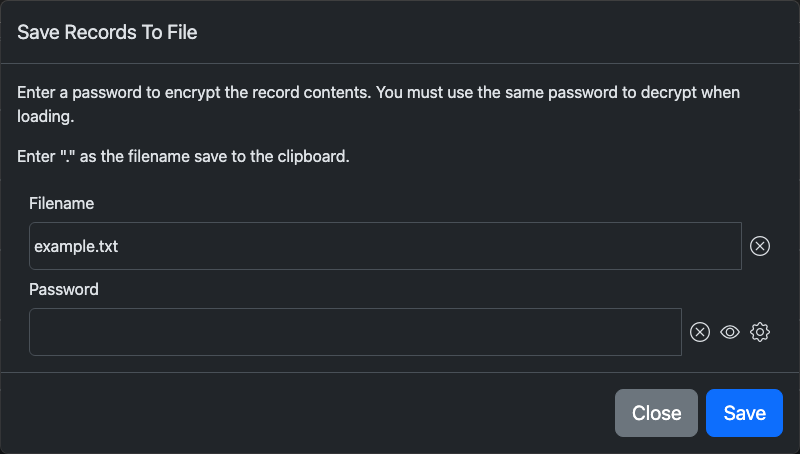
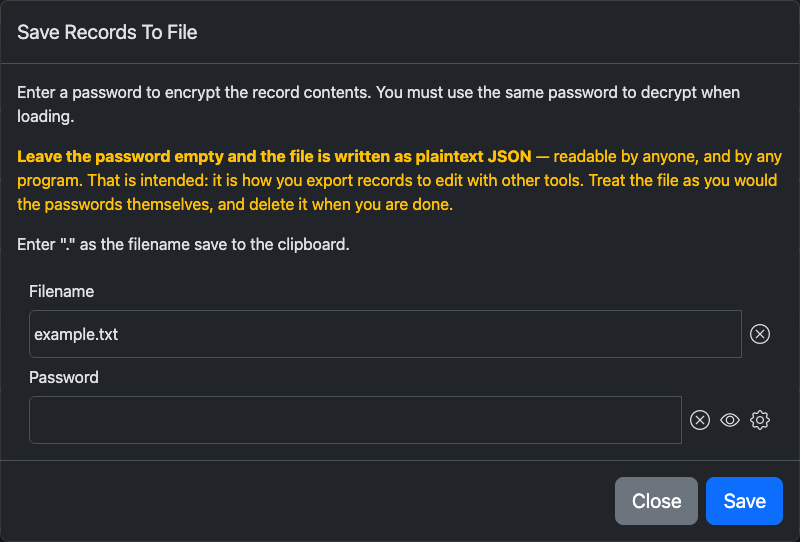
pam v2.5.1 release

diff --git a/pam/www/help/index.html b/pam/www/help/index.html
@@ -140,7 +140,7 @@ the on-line help is generated.</p>
 </tr>
 <tr>
 <td>Version</td>
-<td><code>2.5.0</code></td>
+<td><code>2.5.1</code></td>
 </tr>
 <tr>
 <td>Bootstrap Version</td>
@@ -148,11 +148,11 @@ the on-line help is generated.</p>
 </tr>
 <tr>
 <td>Build</td>
-<td><code>2026-09-09 14:54:01 -0700</code></td>
+<td><code>2026-09-09 16:14:14 -0700</code></td>
 </tr>
 <tr>
 <td>GitCommitId</td>
-<td><code>11e53d9</code></td>
+<td><code>1f87576</code></td>
 </tr>
 <tr>
 <td>GitBranch</td>
@@ -267,7 +267,10 @@ Section</a></li>
 <li><a href="#deactivate-record">Deactivate Record</a></li>
 <li><a href="#clone-record">Clone Record</a></li>
 <li><a href="#clear-records">Clear Records</a></li>
-<li><a href="#save-file">Save File</a></li>
+<li><a href="#save-file">Save File</a>
+<ul>
+<li><a href="#plaintext-export">Plaintext export</a></li>
+</ul></li>
 <li><a href="#load-file">Load File</a></li>
 <li><a href="#reused-passwords">Reused Passwords</a></li>
 <li><a href="#breached-passwords">Breached Passwords</a></li>
@@ -2067,6 +2070,34 @@ javascript that can be read by anyone.</p>
 unless you understand the consequences. For example, saving the data
 without a password can sometimes be convenient because it allows you to
 see how the <em>PAM</em> data is organized which can aid automation.</p>
+<h4 id="plaintext-export">Plaintext export</h4>
+<p><strong>Saving with an empty password writes unencrypted
+JSON.</strong> Leave the password field blank in the Save dialogue and
+the file is written as-is: readable, greppable, and editable with
+<code>jq</code> or any text editor. Loading a file with no password
+reads it back the same way.</p>
+<p>Since v2.5.1 the Save dialogue says so at the point you decide,
+rather than leaving it to be discovered here.</p>
+<p>This is <em>PAM</em>’s full-fidelity export. Everything in the vault
+is present — every record, every field, every preference, in
+plaintext.</p>
+<div class="sourceCode" id="cb3"><pre
+class="sourceCode bash"><code class="sourceCode bash"><span id="cb3-1"><a href="#cb3-1" aria-hidden="true" tabindex="-1"></a><span class="co"># adjust every record with jq, then load the result back into PAM</span></span>
+<span id="cb3-2"><a href="#cb3-2" aria-hidden="true" tabindex="-1"></a><span class="ex">jq</span> <span class="st">&#39;.records[].fields[] |= (select(.name == &quot;login&quot;) .value |= ascii_downcase)&#39;</span> <span class="dt">\</span></span>
+<span id="cb3-3"><a href="#cb3-3" aria-hidden="true" tabindex="-1"></a>   vault-plaintext.json <span class="op">&gt;</span> vault-edited.json</span></code></pre></div>
+<p><strong>Treat the resulting file as you would the passwords
+themselves.</strong> It is not protected by anything. Do not leave it in
+a sync folder, a downloads directory or a shell history. Delete it when
+you are done.</p>
+<p>Files written this way carry no integrity digest, so an edited file
+loads without complaint. See <a href="#file-integrity-check">File
+Integrity Check</a>.</p>
+<blockquote>
+<p>Plaintext files saved by <strong>v2.5.0 specifically</strong> do
+carry a digest, which was a bug — an edited copy of one is refused on
+load. Either re-save it from v2.5.1, or strip the field once with
+<code>jq 'del(.meta.integrity)'</code>.</p>
+</blockquote>
 <h3 id="load-file">Load File</h3>
 <p>To load records and preferences from a file by choose the
 <q><img src="../icons/black/file-arrow-up-fill.svg" height='32' width='32' /> Load
@@ -2846,6 +2877,13 @@ unverified vault is not applied silently.</p>
 <p><strong>Older files still work.</strong> A file saved before v2.5.0
 has no digest. <em>PAM</em> notes that in the console and loads it
 normally; a missing digest is not treated as tampering.</p>
+<p><strong>Plaintext saves carry no digest, deliberately.</strong>
+Saving with an empty password writes unencrypted JSON — see <a
+href="#plaintext-export">Plaintext export</a> — and the reason to do
+that is usually to edit the result and load it back. A digest would make
+that fail, reporting a file you edited on purpose as modified. An
+unencrypted file is outside the trust boundary in any case: anyone who
+can read it can rewrite it, digest included.</p>
 <p><strong>What it does not do.</strong> The digest is stored inside the
 file, so anyone able to rewrite the file could remove it. And neither
 this nor any authentication scheme detects a <em>rollback</em> —
@@ -3324,41 +3362,41 @@ href="./MIGRATION.md">MIGRATION.md</a> for details.</p>
 <p>The v2 file format is structured as follows:</p>
 <pre><code>&quot;PAMv2:&quot; + Base64( [16-byte salt] [16-byte IV] [ciphertext] )</code></pre>
 <h4 id="decrypt-a-pam-v2-file">Decrypt a PAM v2 file</h4>
-<div class="sourceCode" id="cb5"><pre
-class="sourceCode bash"><code class="sourceCode bash"><span id="cb5-1"><a href="#cb5-1" aria-hidden="true" tabindex="-1"></a><span class="co"># Strip the PAMv2: prefix and decode from Base64</span></span>
-<span id="cb5-2"><a href="#cb5-2" aria-hidden="true" tabindex="-1"></a><span class="fu">sed</span> <span class="st">&#39;s/^PAMv2://&#39;</span> myfile.txt <span class="kw">|</span> <span class="fu">base64</span> <span class="at">-d</span> <span class="op">&gt;</span> raw.bin</span>
-<span id="cb5-3"><a href="#cb5-3" aria-hidden="true" tabindex="-1"></a></span>
-<span id="cb5-4"><a href="#cb5-4" aria-hidden="true" tabindex="-1"></a><span class="co"># Slice out salt (bytes 0-15), IV (bytes 16-31), ciphertext (bytes 32+)</span></span>
-<span id="cb5-5"><a href="#cb5-5" aria-hidden="true" tabindex="-1"></a><span class="fu">dd</span> if=raw.bin bs=1 count=16 of=salt.bin <span class="dv">2</span><span class="op">&gt;</span>/dev/null</span>
-<span id="cb5-6"><a href="#cb5-6" aria-hidden="true" tabindex="-1"></a><span class="fu">dd</span> if=raw.bin bs=1 skip=16 count=16 of=iv.bin <span class="dv">2</span><span class="op">&gt;</span>/dev/null</span>
-<span id="cb5-7"><a href="#cb5-7" aria-hidden="true" tabindex="-1"></a><span class="fu">dd</span> if=raw.bin bs=1 skip=32 of=cipher.bin <span class="dv">2</span><span class="op">&gt;</span>/dev/null</span>
-<span id="cb5-8"><a href="#cb5-8" aria-hidden="true" tabindex="-1"></a></span>
-<span id="cb5-9"><a href="#cb5-9" aria-hidden="true" tabindex="-1"></a><span class="co"># Decrypt</span></span>
-<span id="cb5-10"><a href="#cb5-10" aria-hidden="true" tabindex="-1"></a><span class="ex">openssl</span> enc <span class="at">-d</span> <span class="at">-aes-256-cbc</span> <span class="dt">\</span></span>
-<span id="cb5-11"><a href="#cb5-11" aria-hidden="true" tabindex="-1"></a>  <span class="at">-pbkdf2</span> <span class="at">-iter</span> 600000 <span class="at">-md</span> sha256 <span class="dt">\</span></span>
-<span id="cb5-12"><a href="#cb5-12" aria-hidden="true" tabindex="-1"></a>  <span class="at">-S</span> <span class="va">$(</span><span class="ex">xxd</span> <span class="at">-p</span> salt.bin<span class="va">)</span> <span class="dt">\</span></span>
-<span id="cb5-13"><a href="#cb5-13" aria-hidden="true" tabindex="-1"></a>  <span class="at">-iv</span> <span class="va">$(</span><span class="ex">xxd</span> <span class="at">-p</span> iv.bin<span class="va">)</span> <span class="dt">\</span></span>
-<span id="cb5-14"><a href="#cb5-14" aria-hidden="true" tabindex="-1"></a>  <span class="at">-in</span> cipher.bin <span class="dt">\</span></span>
-<span id="cb5-15"><a href="#cb5-15" aria-hidden="true" tabindex="-1"></a>  <span class="at">-out</span> decrypted.json <span class="dt">\</span></span>
-<span id="cb5-16"><a href="#cb5-16" aria-hidden="true" tabindex="-1"></a>  <span class="at">-pass</span> pass:yourpassword</span></code></pre></div>
+<div class="sourceCode" id="cb6"><pre
+class="sourceCode bash"><code class="sourceCode bash"><span id="cb6-1"><a href="#cb6-1" aria-hidden="true" tabindex="-1"></a><span class="co"># Strip the PAMv2: prefix and decode from Base64</span></span>
+<span id="cb6-2"><a href="#cb6-2" aria-hidden="true" tabindex="-1"></a><span class="fu">sed</span> <span class="st">&#39;s/^PAMv2://&#39;</span> myfile.txt <span class="kw">|</span> <span class="fu">base64</span> <span class="at">-d</span> <span class="op">&gt;</span> raw.bin</span>
+<span id="cb6-3"><a href="#cb6-3" aria-hidden="true" tabindex="-1"></a></span>
+<span id="cb6-4"><a href="#cb6-4" aria-hidden="true" tabindex="-1"></a><span class="co"># Slice out salt (bytes 0-15), IV (bytes 16-31), ciphertext (bytes 32+)</span></span>
+<span id="cb6-5"><a href="#cb6-5" aria-hidden="true" tabindex="-1"></a><span class="fu">dd</span> if=raw.bin bs=1 count=16 of=salt.bin <span class="dv">2</span><span class="op">&gt;</span>/dev/null</span>
+<span id="cb6-6"><a href="#cb6-6" aria-hidden="true" tabindex="-1"></a><span class="fu">dd</span> if=raw.bin bs=1 skip=16 count=16 of=iv.bin <span class="dv">2</span><span class="op">&gt;</span>/dev/null</span>
+<span id="cb6-7"><a href="#cb6-7" aria-hidden="true" tabindex="-1"></a><span class="fu">dd</span> if=raw.bin bs=1 skip=32 of=cipher.bin <span class="dv">2</span><span class="op">&gt;</span>/dev/null</span>
+<span id="cb6-8"><a href="#cb6-8" aria-hidden="true" tabindex="-1"></a></span>
+<span id="cb6-9"><a href="#cb6-9" aria-hidden="true" tabindex="-1"></a><span class="co"># Decrypt</span></span>
+<span id="cb6-10"><a href="#cb6-10" aria-hidden="true" tabindex="-1"></a><span class="ex">openssl</span> enc <span class="at">-d</span> <span class="at">-aes-256-cbc</span> <span class="dt">\</span></span>
+<span id="cb6-11"><a href="#cb6-11" aria-hidden="true" tabindex="-1"></a>  <span class="at">-pbkdf2</span> <span class="at">-iter</span> 600000 <span class="at">-md</span> sha256 <span class="dt">\</span></span>
+<span id="cb6-12"><a href="#cb6-12" aria-hidden="true" tabindex="-1"></a>  <span class="at">-S</span> <span class="va">$(</span><span class="ex">xxd</span> <span class="at">-p</span> salt.bin<span class="va">)</span> <span class="dt">\</span></span>
+<span id="cb6-13"><a href="#cb6-13" aria-hidden="true" tabindex="-1"></a>  <span class="at">-iv</span> <span class="va">$(</span><span class="ex">xxd</span> <span class="at">-p</span> iv.bin<span class="va">)</span> <span class="dt">\</span></span>
+<span id="cb6-14"><a href="#cb6-14" aria-hidden="true" tabindex="-1"></a>  <span class="at">-in</span> cipher.bin <span class="dt">\</span></span>
+<span id="cb6-15"><a href="#cb6-15" aria-hidden="true" tabindex="-1"></a>  <span class="at">-out</span> decrypted.json <span class="dt">\</span></span>
+<span id="cb6-16"><a href="#cb6-16" aria-hidden="true" tabindex="-1"></a>  <span class="at">-pass</span> pass:yourpassword</span></code></pre></div>
 <h4 id="encrypt-a-file-to-pam-v2-format">Encrypt a file to PAM v2
 format</h4>
-<div class="sourceCode" id="cb6"><pre
-class="sourceCode bash"><code class="sourceCode bash"><span id="cb6-1"><a href="#cb6-1" aria-hidden="true" tabindex="-1"></a><span class="co"># Generate random salt and IV</span></span>
-<span id="cb6-2"><a href="#cb6-2" aria-hidden="true" tabindex="-1"></a><span class="ex">openssl</span> rand 16 <span class="op">&gt;</span> salt.bin</span>
-<span id="cb6-3"><a href="#cb6-3" aria-hidden="true" tabindex="-1"></a><span class="ex">openssl</span> rand 16 <span class="op">&gt;</span> iv.bin</span>
-<span id="cb6-4"><a href="#cb6-4" aria-hidden="true" tabindex="-1"></a></span>
-<span id="cb6-5"><a href="#cb6-5" aria-hidden="true" tabindex="-1"></a><span class="co"># Encrypt</span></span>
-<span id="cb6-6"><a href="#cb6-6" aria-hidden="true" tabindex="-1"></a><span class="ex">openssl</span> enc <span class="at">-aes-256-cbc</span> <span class="dt">\</span></span>
-<span id="cb6-7"><a href="#cb6-7" aria-hidden="true" tabindex="-1"></a>  <span class="at">-pbkdf2</span> <span class="at">-iter</span> 600000 <span class="at">-md</span> sha256 <span class="dt">\</span></span>
-<span id="cb6-8"><a href="#cb6-8" aria-hidden="true" tabindex="-1"></a>  <span class="at">-S</span> <span class="va">$(</span><span class="ex">xxd</span> <span class="at">-p</span> salt.bin<span class="va">)</span> <span class="dt">\</span></span>
-<span id="cb6-9"><a href="#cb6-9" aria-hidden="true" tabindex="-1"></a>  <span class="at">-iv</span> <span class="va">$(</span><span class="ex">xxd</span> <span class="at">-p</span> iv.bin<span class="va">)</span> <span class="dt">\</span></span>
-<span id="cb6-10"><a href="#cb6-10" aria-hidden="true" tabindex="-1"></a>  <span class="at">-in</span> plaintext.json <span class="dt">\</span></span>
-<span id="cb6-11"><a href="#cb6-11" aria-hidden="true" tabindex="-1"></a>  <span class="at">-out</span> cipher.bin <span class="dt">\</span></span>
-<span id="cb6-12"><a href="#cb6-12" aria-hidden="true" tabindex="-1"></a>  <span class="at">-pass</span> pass:yourpassword</span>
-<span id="cb6-13"><a href="#cb6-13" aria-hidden="true" tabindex="-1"></a></span>
-<span id="cb6-14"><a href="#cb6-14" aria-hidden="true" tabindex="-1"></a><span class="co"># Concatenate salt + IV + ciphertext, Base64-encode, and add the PAMv2: prefix</span></span>
-<span id="cb6-15"><a href="#cb6-15" aria-hidden="true" tabindex="-1"></a><span class="fu">cat</span> salt.bin iv.bin cipher.bin <span class="kw">|</span> <span class="fu">base64</span> <span class="kw">|</span> <span class="fu">tr</span> <span class="at">-d</span> <span class="st">&#39;\n&#39;</span> <span class="kw">|</span> <span class="fu">sed</span> <span class="st">&#39;s/^/PAMv2:/&#39;</span> <span class="op">&gt;</span> myfile.txt</span></code></pre></div>
+<div class="sourceCode" id="cb7"><pre
+class="sourceCode bash"><code class="sourceCode bash"><span id="cb7-1"><a href="#cb7-1" aria-hidden="true" tabindex="-1"></a><span class="co"># Generate random salt and IV</span></span>
+<span id="cb7-2"><a href="#cb7-2" aria-hidden="true" tabindex="-1"></a><span class="ex">openssl</span> rand 16 <span class="op">&gt;</span> salt.bin</span>
+<span id="cb7-3"><a href="#cb7-3" aria-hidden="true" tabindex="-1"></a><span class="ex">openssl</span> rand 16 <span class="op">&gt;</span> iv.bin</span>
+<span id="cb7-4"><a href="#cb7-4" aria-hidden="true" tabindex="-1"></a></span>
+<span id="cb7-5"><a href="#cb7-5" aria-hidden="true" tabindex="-1"></a><span class="co"># Encrypt</span></span>
+<span id="cb7-6"><a href="#cb7-6" aria-hidden="true" tabindex="-1"></a><span class="ex">openssl</span> enc <span class="at">-aes-256-cbc</span> <span class="dt">\</span></span>
+<span id="cb7-7"><a href="#cb7-7" aria-hidden="true" tabindex="-1"></a>  <span class="at">-pbkdf2</span> <span class="at">-iter</span> 600000 <span class="at">-md</span> sha256 <span class="dt">\</span></span>
+<span id="cb7-8"><a href="#cb7-8" aria-hidden="true" tabindex="-1"></a>  <span class="at">-S</span> <span class="va">$(</span><span class="ex">xxd</span> <span class="at">-p</span> salt.bin<span class="va">)</span> <span class="dt">\</span></span>
+<span id="cb7-9"><a href="#cb7-9" aria-hidden="true" tabindex="-1"></a>  <span class="at">-iv</span> <span class="va">$(</span><span class="ex">xxd</span> <span class="at">-p</span> iv.bin<span class="va">)</span> <span class="dt">\</span></span>
+<span id="cb7-10"><a href="#cb7-10" aria-hidden="true" tabindex="-1"></a>  <span class="at">-in</span> plaintext.json <span class="dt">\</span></span>
+<span id="cb7-11"><a href="#cb7-11" aria-hidden="true" tabindex="-1"></a>  <span class="at">-out</span> cipher.bin <span class="dt">\</span></span>
+<span id="cb7-12"><a href="#cb7-12" aria-hidden="true" tabindex="-1"></a>  <span class="at">-pass</span> pass:yourpassword</span>
+<span id="cb7-13"><a href="#cb7-13" aria-hidden="true" tabindex="-1"></a></span>
+<span id="cb7-14"><a href="#cb7-14" aria-hidden="true" tabindex="-1"></a><span class="co"># Concatenate salt + IV + ciphertext, Base64-encode, and add the PAMv2: prefix</span></span>
+<span id="cb7-15"><a href="#cb7-15" aria-hidden="true" tabindex="-1"></a><span class="fu">cat</span> salt.bin iv.bin cipher.bin <span class="kw">|</span> <span class="fu">base64</span> <span class="kw">|</span> <span class="fu">tr</span> <span class="at">-d</span> <span class="st">&#39;\n&#39;</span> <span class="kw">|</span> <span class="fu">sed</span> <span class="st">&#39;s/^/PAMv2:/&#39;</span> <span class="op">&gt;</span> myfile.txt</span></code></pre></div>
 <p>The resulting file can be loaded directly into PAM.</p>
 <h2 id="developer-notes">Developer Notes</h2>
 <p>These are things that developers might be interested in.</p>
@@ -3431,36 +3469,36 @@ files into <code>pam/www</code>
 to make them relative by prepending a dot to the <code>href</code> path)
 like this.</li>
 </ol>
-<div class="sourceCode" id="cb7"><pre
-class="sourceCode javascript"><code class="sourceCode javascript"><span id="cb7-1"><a href="#cb7-1" aria-hidden="true" tabindex="-1"></a><span class="op">&lt;</span>link rel<span class="op">=</span><span class="st">&quot;apple-touch-icon&quot;</span> sizes<span class="op">=</span><span class="st">&quot;180x180&quot;</span> href<span class="op">=</span><span class="st">&quot;./apple-touch-icon.png&quot;</span><span class="op">&gt;</span></span>
-<span id="cb7-2"><a href="#cb7-2" aria-hidden="true" tabindex="-1"></a><span class="op">&lt;</span>link rel<span class="op">=</span><span class="st">&quot;icon&quot;</span> type<span class="op">=</span><span class="st">&quot;image/png&quot;</span> sizes<span class="op">=</span><span class="st">&quot;32x32&quot;</span> href<span class="op">=</span><span class="st">&quot;./favicon-32x32.png&quot;</span><span class="op">&gt;</span></span>
-<span id="cb7-3"><a href="#cb7-3" aria-hidden="true" tabindex="-1"></a><span class="op">&lt;</span>link rel<span class="op">=</span><span class="st">&quot;icon&quot;</span> type<span class="op">=</span><span class="st">&quot;image/png&quot;</span> sizes<span class="op">=</span><span class="st">&quot;16x16&quot;</span> href<span class="op">=</span><span class="st">&quot;./favicon-16x16.png&quot;</span><span class="op">&gt;</span></span>
-<span id="cb7-4"><a href="#cb7-4" aria-hidden="true" tabindex="-1"></a><span class="op">&lt;</span>link rel<span class="op">=</span><span class="st">&quot;manifest&quot;</span> href<span class="op">=</span><span class="st">&quot;./site.webmanifest&quot;</span><span class="op">&gt;</span></span></code></pre></div>
+<div class="sourceCode" id="cb8"><pre
+class="sourceCode javascript"><code class="sourceCode javascript"><span id="cb8-1"><a href="#cb8-1" aria-hidden="true" tabindex="-1"></a><span class="op">&lt;</span>link rel<span class="op">=</span><span class="st">&quot;apple-touch-icon&quot;</span> sizes<span class="op">=</span><span class="st">&quot;180x180&quot;</span> href<span class="op">=</span><span class="st">&quot;./apple-touch-icon.png&quot;</span><span class="op">&gt;</span></span>
+<span id="cb8-2"><a href="#cb8-2" aria-hidden="true" tabindex="-1"></a><span class="op">&lt;</span>link rel<span class="op">=</span><span class="st">&quot;icon&quot;</span> type<span class="op">=</span><span class="st">&quot;image/png&quot;</span> sizes<span class="op">=</span><span class="st">&quot;32x32&quot;</span> href<span class="op">=</span><span class="st">&quot;./favicon-32x32.png&quot;</span><span class="op">&gt;</span></span>
+<span id="cb8-3"><a href="#cb8-3" aria-hidden="true" tabindex="-1"></a><span class="op">&lt;</span>link rel<span class="op">=</span><span class="st">&quot;icon&quot;</span> type<span class="op">=</span><span class="st">&quot;image/png&quot;</span> sizes<span class="op">=</span><span class="st">&quot;16x16&quot;</span> href<span class="op">=</span><span class="st">&quot;./favicon-16x16.png&quot;</span><span class="op">&gt;</span></span>
+<span id="cb8-4"><a href="#cb8-4" aria-hidden="true" tabindex="-1"></a><span class="op">&lt;</span>link rel<span class="op">=</span><span class="st">&quot;manifest&quot;</span> href<span class="op">=</span><span class="st">&quot;./site.webmanifest&quot;</span><span class="op">&gt;</span></span></code></pre></div>
 <ol start="6" type="1">
 <li>Edited the link tags in <code>pam/www/site.webmanifest</code> to
 make them relative as well by prepending a dot to the <code>src</code>
 path like this. Note that the original was not not formatted, I
 formatted here to make it easier to read.</li>
 </ol>
-<div class="sourceCode" id="cb8"><pre
-class="sourceCode json"><code class="sourceCode json"><span id="cb8-1"><a href="#cb8-1" aria-hidden="true" tabindex="-1"></a>  <span class="st">&quot;name&quot;</span><span class="er">:</span> <span class="st">&quot;&quot;</span><span class="er">,</span></span>
-<span id="cb8-2"><a href="#cb8-2" aria-hidden="true" tabindex="-1"></a>  <span class="st">&quot;short_name&quot;</span><span class="er">:</span> <span class="st">&quot;&quot;</span><span class="er">,</span></span>
-<span id="cb8-3"><a href="#cb8-3" aria-hidden="true" tabindex="-1"></a>  <span class="st">&quot;icons&quot;</span><span class="er">:</span> <span class="ot">[</span></span>
-<span id="cb8-4"><a href="#cb8-4" aria-hidden="true" tabindex="-1"></a>    <span class="fu">{</span></span>
-<span id="cb8-5"><a href="#cb8-5" aria-hidden="true" tabindex="-1"></a>      <span class="dt">&quot;src&quot;</span><span class="fu">:</span> <span class="st">&quot;./android-chrome-192x192.png&quot;</span><span class="fu">,</span></span>
-<span id="cb8-6"><a href="#cb8-6" aria-hidden="true" tabindex="-1"></a>      <span class="dt">&quot;sizes&quot;</span><span class="fu">:</span> <span class="st">&quot;192x192&quot;</span><span class="fu">,</span></span>
-<span id="cb8-7"><a href="#cb8-7" aria-hidden="true" tabindex="-1"></a>      <span class="dt">&quot;type&quot;</span><span class="fu">:</span> <span class="st">&quot;image/png&quot;</span></span>
-<span id="cb8-8"><a href="#cb8-8" aria-hidden="true" tabindex="-1"></a>    <span class="fu">}</span><span class="ot">,</span></span>
-<span id="cb8-9"><a href="#cb8-9" aria-hidden="true" tabindex="-1"></a>    <span class="fu">{</span></span>
-<span id="cb8-10"><a href="#cb8-10" aria-hidden="true" tabindex="-1"></a>      <span class="dt">&quot;src&quot;</span><span class="fu">:</span> <span class="st">&quot;./android-chrome-512x512.png&quot;</span><span class="fu">,</span></span>
-<span id="cb8-11"><a href="#cb8-11" aria-hidden="true" tabindex="-1"></a>      <span class="dt">&quot;sizes&quot;</span><span class="fu">:</span> <span class="st">&quot;512x512&quot;</span><span class="fu">,</span></span>
-<span id="cb8-12"><a href="#cb8-12" aria-hidden="true" tabindex="-1"></a>      <span class="dt">&quot;type&quot;</span><span class="fu">:</span> <span class="st">&quot;image/png&quot;</span></span>
-<span id="cb8-13"><a href="#cb8-13" aria-hidden="true" tabindex="-1"></a>    <span class="fu">}</span></span>
-<span id="cb8-14"><a href="#cb8-14" aria-hidden="true" tabindex="-1"></a>  <span class="ot">]</span><span class="er">,</span></span>
-<span id="cb8-15"><a href="#cb8-15" aria-hidden="true" tabindex="-1"></a>  <span class="st">&quot;theme_color&quot;</span><span class="er">:</span> <span class="st">&quot;#ffffff&quot;</span><span class="er">,</span></span>
-<span id="cb8-16"><a href="#cb8-16" aria-hidden="true" tabindex="-1"></a>  <span class="st">&quot;background_color&quot;</span><span class="er">:</span> <span class="st">&quot;#ffffff&quot;</span><span class="er">,</span></span>
-<span id="cb8-17"><a href="#cb8-17" aria-hidden="true" tabindex="-1"></a>  <span class="st">&quot;display&quot;</span><span class="er">:</span> <span class="st">&quot;standalone&quot;</span></span>
-<span id="cb8-18"><a href="#cb8-18" aria-hidden="true" tabindex="-1"></a><span class="er">}</span></span></code></pre></div>
+<div class="sourceCode" id="cb9"><pre
+class="sourceCode json"><code class="sourceCode json"><span id="cb9-1"><a href="#cb9-1" aria-hidden="true" tabindex="-1"></a>  <span class="st">&quot;name&quot;</span><span class="er">:</span> <span class="st">&quot;&quot;</span><span class="er">,</span></span>
+<span id="cb9-2"><a href="#cb9-2" aria-hidden="true" tabindex="-1"></a>  <span class="st">&quot;short_name&quot;</span><span class="er">:</span> <span class="st">&quot;&quot;</span><span class="er">,</span></span>
+<span id="cb9-3"><a href="#cb9-3" aria-hidden="true" tabindex="-1"></a>  <span class="st">&quot;icons&quot;</span><span class="er">:</span> <span class="ot">[</span></span>
+<span id="cb9-4"><a href="#cb9-4" aria-hidden="true" tabindex="-1"></a>    <span class="fu">{</span></span>
+<span id="cb9-5"><a href="#cb9-5" aria-hidden="true" tabindex="-1"></a>      <span class="dt">&quot;src&quot;</span><span class="fu">:</span> <span class="st">&quot;./android-chrome-192x192.png&quot;</span><span class="fu">,</span></span>
+<span id="cb9-6"><a href="#cb9-6" aria-hidden="true" tabindex="-1"></a>      <span class="dt">&quot;sizes&quot;</span><span class="fu">:</span> <span class="st">&quot;192x192&quot;</span><span class="fu">,</span></span>
+<span id="cb9-7"><a href="#cb9-7" aria-hidden="true" tabindex="-1"></a>      <span class="dt">&quot;type&quot;</span><span class="fu">:</span> <span class="st">&quot;image/png&quot;</span></span>
+<span id="cb9-8"><a href="#cb9-8" aria-hidden="true" tabindex="-1"></a>    <span class="fu">}</span><span class="ot">,</span></span>
+<span id="cb9-9"><a href="#cb9-9" aria-hidden="true" tabindex="-1"></a>    <span class="fu">{</span></span>
+<span id="cb9-10"><a href="#cb9-10" aria-hidden="true" tabindex="-1"></a>      <span class="dt">&quot;src&quot;</span><span class="fu">:</span> <span class="st">&quot;./android-chrome-512x512.png&quot;</span><span class="fu">,</span></span>
+<span id="cb9-11"><a href="#cb9-11" aria-hidden="true" tabindex="-1"></a>      <span class="dt">&quot;sizes&quot;</span><span class="fu">:</span> <span class="st">&quot;512x512&quot;</span><span class="fu">,</span></span>
+<span id="cb9-12"><a href="#cb9-12" aria-hidden="true" tabindex="-1"></a>      <span class="dt">&quot;type&quot;</span><span class="fu">:</span> <span class="st">&quot;image/png&quot;</span></span>
+<span id="cb9-13"><a href="#cb9-13" aria-hidden="true" tabindex="-1"></a>    <span class="fu">}</span></span>
+<span id="cb9-14"><a href="#cb9-14" aria-hidden="true" tabindex="-1"></a>  <span class="ot">]</span><span class="er">,</span></span>
+<span id="cb9-15"><a href="#cb9-15" aria-hidden="true" tabindex="-1"></a>  <span class="st">&quot;theme_color&quot;</span><span class="er">:</span> <span class="st">&quot;#ffffff&quot;</span><span class="er">,</span></span>
+<span id="cb9-16"><a href="#cb9-16" aria-hidden="true" tabindex="-1"></a>  <span class="st">&quot;background_color&quot;</span><span class="er">:</span> <span class="st">&quot;#ffffff&quot;</span><span class="er">,</span></span>
+<span id="cb9-17"><a href="#cb9-17" aria-hidden="true" tabindex="-1"></a>  <span class="st">&quot;display&quot;</span><span class="er">:</span> <span class="st">&quot;standalone&quot;</span></span>
+<span id="cb9-18"><a href="#cb9-18" aria-hidden="true" tabindex="-1"></a><span class="er">}</span></span></code></pre></div>
 <h3 id="test-pam">Test PAM</h3>
 <p>Here are the steps to test PAM.</p>
 <ol type="1">
@@ -3530,10 +3568,10 @@ tests</td>
 </table>
 <p><code>TEST_NAME</code> is passed to pytest’s <code>-k</code>, so it
 matches substrings and expressions:</p>
-<div class="sourceCode" id="cb9"><pre
-class="sourceCode bash"><code class="sourceCode bash"><span id="cb9-1"><a href="#cb9-1" aria-hidden="true" tabindex="-1"></a><span class="fu">make</span> test-one TEST_NAME=test_password_generator</span>
-<span id="cb9-2"><a href="#cb9-2" aria-hidden="true" tabindex="-1"></a><span class="fu">make</span> test-one TEST_NAME=print</span>
-<span id="cb9-3"><a href="#cb9-3" aria-hidden="true" tabindex="-1"></a><span class="fu">make</span> test-one TEST_NAME=<span class="st">&#39;load or save&#39;</span></span></code></pre></div>
+<div class="sourceCode" id="cb10"><pre
+class="sourceCode bash"><code class="sourceCode bash"><span id="cb10-1"><a href="#cb10-1" aria-hidden="true" tabindex="-1"></a><span class="fu">make</span> test-one TEST_NAME=test_password_generator</span>
+<span id="cb10-2"><a href="#cb10-2" aria-hidden="true" tabindex="-1"></a><span class="fu">make</span> test-one TEST_NAME=print</span>
+<span id="cb10-3"><a href="#cb10-3" aria-hidden="true" tabindex="-1"></a><span class="fu">make</span> test-one TEST_NAME=<span class="st">&#39;load or save&#39;</span></span></code></pre></div>
 <p>Both documentation checks run as part of <code>make lint</code>,
 because a documentation defect is invisible in a Markdown preview: a
 broken anchor simply does nothing, and a link to the <em>wrong</em>
@@ -3556,8 +3594,8 @@ testing in the browser</h4>
 interactive debugging, which is particularly useful when a test failure
 is hard to diagnose from the pytest output alone.</p>
 <p>Start the local server if it is not already running:</p>
-<div class="sourceCode" id="cb10"><pre
-class="sourceCode bash"><code class="sourceCode bash"><span id="cb10-1"><a href="#cb10-1" aria-hidden="true" tabindex="-1"></a><span class="fu">make</span> run</span></code></pre></div>
+<div class="sourceCode" id="cb11"><pre
+class="sourceCode bash"><code class="sourceCode bash"><span id="cb11-1"><a href="#cb11-1" aria-hidden="true" tabindex="-1"></a><span class="fu">make</span> run</span></code></pre></div>
 <p>Then open <a
 href="http://localhost:8081/tests/tests.html">http://localhost:8081/tests/tests.html</a>
 in Chrome or Firefox. The test runner executes immediately and displays

diff --git a/pam/www/tests/tests.html b/pam/www/tests/tests.html
@@ -1184,7 +1184,7 @@ test('empty password with JSON ciphertext: callback fires exactly once', () => {
 import { prefMemorablePasswordMaxWords } from '/js/prefs.js'
 import { mkRecordField, mkRecordEditField, enableBreachCheckButtons } from '/js/field.js'
 import { findRecord, findRecordAfter, deleteRecord, insertRecord, clearRecords, mkRecord } from '/js/record.js'
-import { convertInternalDataToJSON } from '/js/save.js'
+import { convertInternalDataToJSON, menuSaveDlg } from '/js/save.js'
 import { isValidLoadUrl, formatTimeElapsed } from '/js/load.js'
 
 suite('SIMP-005 — prefMemorablePasswordMaxWords renders correctly')
@@ -4133,6 +4133,45 @@ async function runIntegrityTests() {
       const result = await verifyIntegrity(v)
       assertEqual(result.status, INTEGRITY_FAILED, `undetected: ${label}`)
     }
+  })
+
+
+
+  test('the Save dialogue warns that an empty password writes plaintext', () => {
+    // The dialogue said "Enter a password to encrypt the record contents" and
+    // nothing about what happens if you do not. Leaving it blank writes every
+    // password in the clear. That behaviour is intended — it is the export
+    // tier — but the warning belongs where the decision is made, not only in
+    // the README.
+    const dlg = menuSaveDlg()
+    const text = dlg.textContent
+    assert(text.indexOf('plaintext JSON') > -1,
+           'the dialogue must say what an empty password produces')
+    assert(text.indexOf('readable by anyone') > -1,
+           'and what that means')
+    assert(text.indexOf('delete it when you are done') > -1,
+           'and what to do about it')
+  })
+
+  await runAsyncTest('a plaintext save carries no digest', async () => {
+    // Saving with an empty password writes plaintext JSON — PAM's de facto
+    // "everything" export tier, and people use it to edit records with jq and
+    // load them back. A digest would make that round trip fail with "this file
+    // has been modified since it was saved", which is true and useless.
+    //
+    // An unencrypted file is outside the trust boundary anyway: anyone who can
+    // read it can rewrite it, digest included.
+    const contents = mkIntegrityVault()
+    delete contents.meta.integrity
+    assertEqual((await verifyIntegrity(contents)).status, INTEGRITY_ABSENT,
+                'a file with no digest must load, not be refused')
+  })
+
+  await runAsyncTest('an edited plaintext export still loads', async () => {
+    const exported = mkIntegrityVault()      // no digest, as saveFile now writes
+    delete exported.meta.integrity
+    exported.records[0].fields[1].value = 'edited-by-hand'
+    assertEqual((await verifyIntegrity(exported)).status, INTEGRITY_ABSENT)
   })
 
   await runAsyncTest('the reason is reported, not just the verdict', async () => {

diff --git a/pam/www/js/save.js b/pam/www/js/save.js
@@ -33,6 +33,19 @@ export function menuSaveDlg() {
     let body = xmk('span')
         .xAppendChild(
             xmk('p').xInnerHTML('Enter a password to encrypt the record contents. You must use the same password to decrypt when loading.'),
+            // Leaving the password blank writes plaintext JSON. That is a
+            // real and useful feature -- it is PAM's full-fidelity export,
+            // meant to be edited with jq and loaded back -- but it writes
+            // every password in the clear, and until v2.5.1 this dialogue
+            // said nothing about it. The moment a user needs to know is
+            // the moment they decide whether to type a password.
+            xmk('p').xClass('text-warning').xInnerHTML(
+                '<b>Leave the password empty and the file is written as ' +
+                'plaintext JSON</b> &mdash; readable by anyone, and by ' +
+                'any program. That is intended: it is how you export ' +
+                'records to edit with other tools. Treat the file as you ' +
+                'would the passwords themselves, and delete it when you ' +
+                'are done.'),
             xmk('p').xInnerHTML('Enter "." as the filename save to the clipboard.'),
             xmk('form').xClass('container').xAppend(
                 // save file name
@@ -209,7 +222,24 @@ async function saveFile(filename, password) {
         'records': [],
     }
     convertInternalDataToJSON(contents, now)
-    contents.meta.integrity = await contentDigest(contents.records, contents.prefs)
+
+    // The digest is written only for ENCRYPTED files.
+    //
+    // Saving with an empty password writes plaintext JSON — PAM's de facto
+    // "everything" export, and the reason people reach for it is to edit the
+    // result with jq or an editor and load it back. A digest would make that
+    // fail: the file no longer matches, so PAM would refuse it and report that
+    // it "has been modified since it was saved" — technically true and useless,
+    // because the user modified it on purpose.
+    //
+    // There is a principled reason as well as a practical one. An unencrypted
+    // file is outside the trust boundary already: anyone who can read it can
+    // rewrite it, digest included. Asserting integrity over it claims something
+    // the format cannot back.
+    if (password && password.length > 0) {
+        contents.meta.integrity = await contentDigest(contents.records,
+                                                      contents.prefs)
+    }
     setAboutFileInfo(`Saved ${contents.records.length} records on ${now} to ${filename}.`)
     let text = JSON.stringify(contents, null, 0)
     encryptV2(password, text, filename, saveCallback)

diff --git a/pam/www/js/version.js b/pam/www/js/version.js
@@ -1,7 +1,7 @@
 // DO NOT DELETE!
 // This file is automatically generated by make.
-export const VERSION = '2.5.0'
+export const VERSION = '2.5.1'
 export const BOOTSTRAP_VERSION = '5.3.8'
-export const COMMIT_ID = '11e53d9'
-export const COMMIT_DATE = '2026-09-09 14:54:01 -0700'
+export const COMMIT_ID = '1f87576'
+export const COMMIT_DATE = '2026-09-09 16:14:14 -0700'
 export const COMMIT_BRANCH = 'main'
